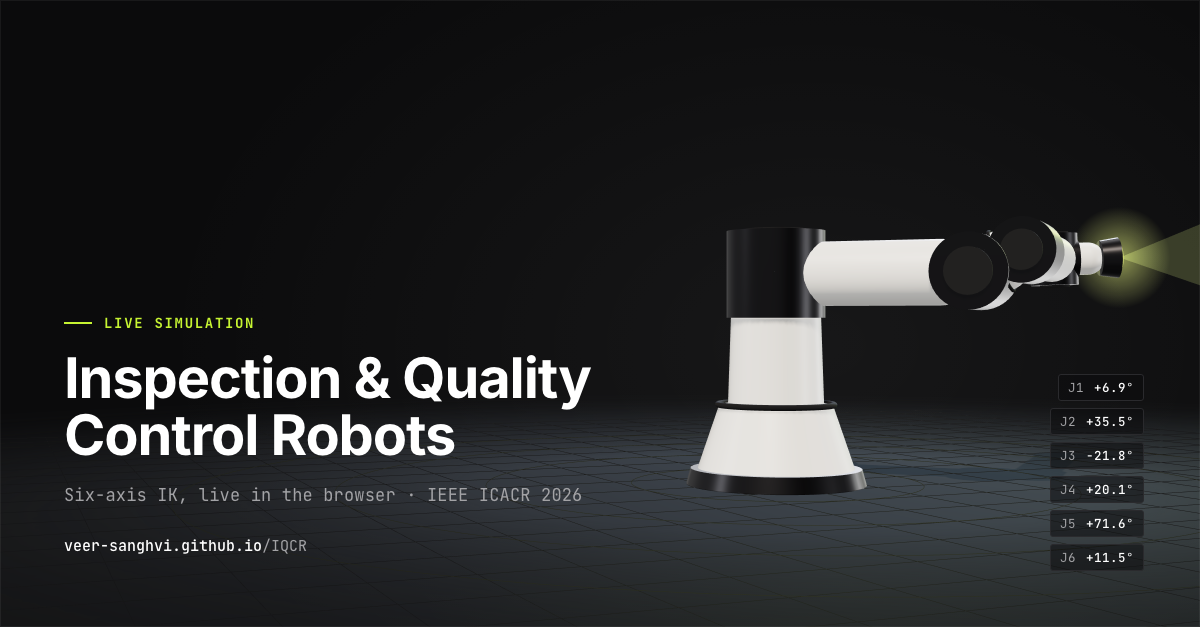
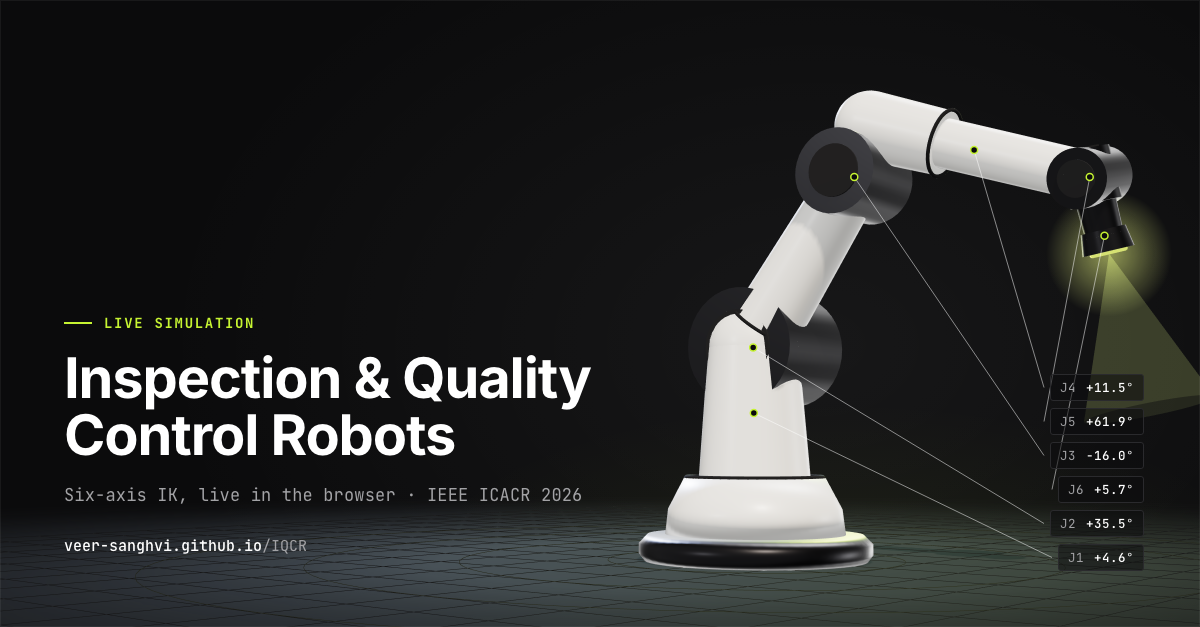
Hero: IRB 120 silhouette, leader lines to every joint, og card re-rendered
With the corrected kinematics the hero arm stands upright. Its body now
follows the IRB 120's form: rounded base plate and turret, a chunky shoulder
housing hung off one side, a tapered upper arm, the J4 drum behind the elbow,
a slim forearm and a compact wrist. Each J1 to J6 tag has a leader line
ending in a lime ring on its joint, and the tag column follows the joints'
on-screen order so the leaders never cross. Camera and pointer target are
reframed for the new pose; pointer-follow IK, orbit, idle, reduced motion
and offscreen pause are unchanged.

og/iqcr-og.png is re-rendered from the same arm at a low three-quarter
angle with the wrist reaching toward the viewer and labelled joints
(1200x627, 263 KB).

Claude-Session: https://claude.ai/code/session_01D47Fi15diK1kUPdyAUWe3G

Changed region(s): [[0.0617, 0.1212, 1.0, 1.0], [0.8017, 0.9091, 0.8325, 0.9394], [0.8017, 0.4848, 0.8325, 0.5152]]

diff --git a/hero.js b/hero.js
@@ -33,6 +33,9 @@ function radialTexture(inner, outer, size = 256, hold = 0) {
 // The arm. Link i lives in a group whose matrix is frames[i + 1]; in that frame
 // the link runs from P_i = Rx(-alpha_i) * (-a_i, 0, -d_i) to the origin, which is
 // pose independent, so only the six group matrices change per frame.
+// Proportions follow the IRB 120: a rounded base plate with a turret, a chunky
+// shoulder housing hung off one side of the turret, a tapered upper arm, the
+// J4 motor housing behind the elbow, a slim forearm and a compact wrist.
 export function buildArm(K) {
   const group = new THREE.Group();
   const paint = new THREE.MeshPhysicalMaterial({ color: PAINT, roughness: 0.42, metalness: 0.0, clearcoat: 0.5, clearcoatRoughness: 0.3, envMapIntensity: 0.6 });
@@ -50,40 +53,75 @@ export function buildArm(K) {
     parent.add(m);
     return m;
   };
+  // a link body: rounded at both ends, tapering from r0 at `from` to r1 at `to`
+  const linkBody = (parent, from, to, r0, r1, mat) => {
+    const dir = to.clone().sub(from).normalize();
+    const len = from.distanceTo(to);
+    const q = new THREE.Quaternion().setFromUnitVectors(Y_AXIS, dir);
+    add(parent, new THREE.CylinderGeometry(r1, r0, len, 40), mat, { pos: from.clone().addScaledVector(dir, len / 2), quat: q });
+    add(parent, new THREE.SphereGeometry(r0, 32, 20), mat, { pos: from.clone() });
+    add(parent, new THREE.SphereGeometry(r1, 32, 20), mat, { pos: to.clone() });
+    return { dir, q };
+  };
+  // a joint housing: a graphite drum on the local z axis with rubber end caps
+  const housing = (parent, r, h, zOff = 0) => {
+    add(parent, new THREE.CylinderGeometry(r, r, h, 40), graphite, { pos: new THREE.Vector3(0, 0, zOff), rotX: Math.PI / 2 });
+    add(parent, new THREE.CylinderGeometry(r * 0.62, r * 0.62, h + 6, 32), rubber, { pos: new THREE.Vector3(0, 0, zOff), rotX: Math.PI / 2 });
+  };
 
-  // static base casting in the world frame
-  add(group, new THREE.CylinderGeometry(118, 124, 22, 48), graphite, { pos: new THREE.Vector3(0, 0, 11), rotX: Math.PI / 2 });
-  add(group, new THREE.CylinderGeometry(78, 108, 88, 48), paint, { pos: new THREE.Vector3(0, 0, 66), rotX: Math.PI / 2 });
-  add(group, new THREE.TorusGeometry(80, 4, 10, 48), rubber, { pos: new THREE.Vector3(0, 0, 110) });
+  // static base in the world frame: a rounded plate, a lip, the turret foot
+  const plate = new THREE.LatheGeometry([
+    new THREE.Vector2(0, 0), new THREE.Vector2(150, 0), new THREE.Vector2(158, 10), new THREE.Vector2(158, 24),
+    new THREE.Vector2(146, 36), new THREE.Vector2(0, 36),
+  ], 56);
+  add(group, plate, graphite, { rotX: Math.PI / 2 });
+  const foot = new THREE.LatheGeometry([
+    new THREE.Vector2(0, 36), new THREE.Vector2(122, 36), new THREE.Vector2(118, 70), new THREE.Vector2(96, 112), new THREE.Vector2(0, 112),
+  ], 56);
+  add(group, foot, paint, { rotX: Math.PI / 2 });
+  add(group, new THREE.TorusGeometry(92, 4, 10, 48), rubber, { pos: new THREE.Vector3(0, 0, 112) });
 
-  // per-link radii: turret, upper arm, elbow offset, forearm, (zero-length wrist), flange
-  const linkR = [60, 44, 40, 34, 0, 24];
-  const housingR = [0, 68, 50, 42, 34, 30, 0]; // housing at frames[j] origin, j = 1..5
-  const housingH = [0, 120, 104, 92, 76, 64, 0];
   const links = [];
   for (let i = 0; i < 6; i++) {
     const g = new THREE.Group();
     g.matrixAutoUpdate = false;
     group.add(g);
     const P = new THREE.Vector3(-K.DH_A[i], 0, -K.DH_D[i]).applyAxisAngle(X_AXIS, -K.DH_ALPHA[i]);
-    const len = P.length();
-    if (len > 1 && linkR[i] > 0) {
-      const dir = P.clone().negate().normalize();
+    const O = new THREE.Vector3();
+    if (i === 0) {
+      // turret: from the foot up to the shoulder, slightly tapered, then the
+      // shoulder housing hung off one side of the turret on the J2 axis
+      const top = P.clone().addScaledVector(P.clone().negate().normalize(), K.DH_D[0]);
+      const dir = top.clone().sub(P).normalize();
       const q = new THREE.Quaternion().setFromUnitVectors(Y_AXIS, dir);
-      const start = i === 0 ? P.clone().addScaledVector(dir, 112) : P.clone();
-      const segLen = start.distanceTo(new THREE.Vector3());
-      const mid = start.clone().addScaledVector(dir, segLen / 2);
-      const geo = i === 0
-        ? new THREE.CylinderGeometry(linkR[i], linkR[i] + 6, segLen, 40)
-        : new THREE.CapsuleGeometry(linkR[i], Math.max(segLen - linkR[i] * 2, 1), 6, 28);
-      add(g, geo, paint, { pos: mid, quat: q });
-      // a dark seam ring where the painted link meets its housing
-      if (i > 0) add(g, new THREE.TorusGeometry(linkR[i] + 1.5, 2.2, 8, 36), rubber, { pos: start.clone().addScaledVector(dir, linkR[i] * 0.9), quat: q.clone().multiply(new THREE.Quaternion().setFromAxisAngle(X_AXIS, Math.PI / 2)) });
-    }
-    const j = i + 1;
-    if (housingR[j] > 0) {
-      add(g, new THREE.CylinderGeometry(housingR[j], housingR[j], housingH[j], 40), graphite, { rotX: Math.PI / 2 });
-      add(g, new THREE.CylinderGeometry(housingR[j] * 0.62, housingR[j] * 0.62, housingH[j] + 6, 32), rubber, { rotX: Math.PI / 2 });
+      const from = P.clone().addScaledVector(dir, 112);
+      const len = from.distanceTo(top);
+      add(g, new THREE.CylinderGeometry(62, 76, len, 40), paint, { pos: from.clone().addScaledVector(dir, len / 2), quat: q });
+      add(g, new THREE.SphereGeometry(62, 32, 20), paint, { pos: top });
+      housing(g, 80, 150, 34);
+    } else if (i === 1) {
+      // upper arm: tapers from the shoulder to the elbow, seam at the shoulder
+      const { dir, q } = linkBody(g, P, O, 50, 40, paint);
+      add(g, new THREE.TorusGeometry(51, 2.4, 8, 40), rubber, { pos: P.clone().addScaledVector(dir, 36), quat: q.clone().multiply(new THREE.Quaternion().setFromAxisAngle(X_AXIS, Math.PI / 2)) });
+      housing(g, 56, 118);
+    } else if (i === 2) {
+      // elbow offset link (70 mm); the J4 drum on the next link covers its far end
+      linkBody(g, P, O, 40, 40, paint);
+    } else if (i === 3) {
+      // forearm: the J4 motor drum behind the elbow, then a slim tube to the wrist
+      const dir = O.clone().sub(P).normalize();
+      const q = new THREE.Quaternion().setFromUnitVectors(Y_AXIS, dir);
+      add(g, new THREE.CylinderGeometry(42, 46, 110, 40), paint, { pos: P.clone().addScaledVector(dir, 55), quat: q });
+      add(g, new THREE.SphereGeometry(46, 32, 20), paint, { pos: P.clone() });
+      add(g, new THREE.TorusGeometry(43, 2.4, 8, 40), rubber, { pos: P.clone().addScaledVector(dir, 110), quat: q.clone().multiply(new THREE.Quaternion().setFromAxisAngle(X_AXIS, Math.PI / 2)) });
+      linkBody(g, P.clone().addScaledVector(dir, 110), O, 32, 30, paint);
+      housing(g, 36, 84);
+    } else if (i === 4) {
+      // zero-length wrist link: the J6 housing sits on the J5 drum
+      housing(g, 30, 64);
+    } else {
+      // flange: a short graphite stub to the tool point
+      linkBody(g, P, O, 24, 22, graphite);
     }
     links.push(g);
   }
@@ -119,6 +157,13 @@ export function buildArm(K) {
     }
   }
   return { group, update, glow, cone };
+}
+
+// Where each joint label points: J1 on the turret, J2 the shoulder, J3 the
+// elbow, J4 the middle of the forearm, J5 the wrist centre, J6 the flange.
+export function jointAnchors(frames) {
+  const pts = frames.map((T) => new THREE.Vector3(T[0][3], T[1][3], T[2][3]));
+  return [new THREE.Vector3(0, 0, 200), pts[1], pts[2], pts[3].clone().lerp(pts[4], 0.5), pts[4], pts[6]];
 }
 
 // Three-point studio: warm key with a soft shadow, cool rim, low fill, a
@@ -229,9 +274,9 @@ export function createHero(host) {
 
   const camera = new THREE.PerspectiveCamera(28, 1, 10, 6000);
   camera.up.copy(Z_AXIS);
-  camera.position.set(1180, -400, 440);
+  camera.position.set(1150, -820, 420);
   const controls = new OrbitControls(camera, host);
-  controls.target.set(70, 230, 240);
+  controls.target.set(140, -40, 330);
   controls.enableZoom = false;
   controls.enablePan = false;
   controls.enableDamping = true;
@@ -242,7 +287,7 @@ export function createHero(host) {
   controls.update();
 
   // ---- pointer target ----
-  const CENTER = new THREE.Vector3(150, 300, 300);
+  const CENTER = new THREE.Vector3(360, -150, 330);
   const SHOULDER = new THREE.Vector3(0, 0, K.DH_D[0]);
   const REACH = 540;
   const targetRaw = CENTER.clone();
@@ -289,23 +334,25 @@ export function createHero(host) {
   // ---- annotation overlay: J1 to J6 leader lines and live angles ----
   const tags = Array.from(host.querySelectorAll("[data-joint]"));
   const lines = Array.from(host.querySelectorAll("[data-leader]"));
-  const anchors = tags.map(() => new THREE.Vector3());
+  const dots = Array.from(host.querySelectorAll("[data-leader-dot]"));
   const tcp = host.querySelector("[data-tcp]");
   function updateOverlay(frames) {
     const r = host.getBoundingClientRect();
     const pts = frames.map((T) => new THREE.Vector3(T[0][3], T[1][3], T[2][3]));
-    // J1 sits on the turret, J2 to J6 at the frame origins that carry those axes
-    anchors[0].set(0, 0, 215);
-    for (let j = 1; j < 6; j++) anchors[j].copy(pts[j]);
+    const anchors = jointAnchors(frames);
     const v = new THREE.Vector3();
+    const screen = anchors.map((a) => { v.copy(a).project(camera); return [(v.x * 0.5 + 0.5) * r.width, (-v.y * 0.5 + 0.5) * r.height]; });
+    // the tag column follows the joints' order on screen, top to bottom, so the leaders never cross
+    const rank = screen.map((p, j) => [p[1], j]).sort((a, b) => a[0] - b[0]).map(([, j]) => j);
+    rank.forEach((j, k) => { tags[j].style.order = k; });
     tags.forEach((tag, j) => {
-      v.copy(anchors[j]).project(camera);
-      const x = (v.x * 0.5 + 0.5) * r.width, y = (-v.y * 0.5 + 0.5) * r.height;
+      const [x, y] = screen[j];
       const deg = (q[j] * 180) / Math.PI;
       tag.lastElementChild.textContent = `${deg >= 0 ? "+" : "−"}${Math.abs(deg).toFixed(1).padStart(5, " ")}°`;
       const tr = tag.getBoundingClientRect();
-      const line = lines[j];
+      const line = lines[j], dot = dots[j];
       if (line) line.setAttribute("x1", tr.right - r.left + 4), line.setAttribute("y1", tr.top - r.top + tr.height / 2), line.setAttribute("x2", x), line.setAttribute("y2", y);
+      if (dot) dot.setAttribute("cx", x), dot.setAttribute("cy", y);
     });
     if (tcp) {
       const p = pts[6];
@@ -325,9 +372,9 @@ export function createHero(host) {
     // whole arm sits above the copy; desktop keeps the long-lens studio look
     const portrait = camera.aspect < 0.9;
     camera.fov = portrait ? 50 : camera.aspect < 1.4 ? 34 : 28;
-    controls.target.set(70, portrait ? 230 : 140, portrait ? 130 : 230);
+    controls.target.set(portrait ? 120 : 140, portrait ? -60 : -40, portrait ? 340 : 330);
     const dir = camera.position.clone().sub(controls.target).normalize();
-    camera.position.copy(controls.target).addScaledVector(dir, portrait ? 1750 : 1280);
+    camera.position.copy(controls.target).addScaledVector(dir, portrait ? 1550 : 1500);
     camera.updateProjectionMatrix();
     renderer.setSize(w, h, false);
     needsRender = true;

diff --git a/og/og-scene.html b/og/og-scene.html
@@ -25,6 +25,9 @@ h1{font-size:56px; line-height:1.02; letter-spacing:-0.02em; font-weight:700; ma
 .url{font-family:"JetBrains Mono",monospace; font-size:15px; color:#A3A3A6;}
 .url b{color:#fff; font-weight:500;}
 .tags{position:absolute; right:56px; bottom:56px; display:flex; flex-direction:column; gap:7px; align-items:flex-end;}
+.leaders{position:absolute; inset:0; width:100%; height:100%; pointer-events:none; overflow:visible;}
+.leaders line{stroke:rgba(255,255,255,0.5); stroke-width:1;}
+.leaders circle{fill:#0B0B0C; stroke:#C6F432; stroke-width:1.5;}
 .tag{font-family:"JetBrains Mono",monospace; font-size:12.5px; letter-spacing:0.04em; color:#A3A3A6; background:rgba(11,11,12,0.55); border:1px solid #2A2A2D; border-radius:3px; padding:4px 9px; font-variant-numeric:tabular-nums;}
 .tag b{color:#fff; font-weight:500; margin-left:10px;}
 .frame{position:absolute; inset:0; border:1px solid rgba(255,255,255,0.06); pointer-events:none;}
@@ -33,6 +36,7 @@ h1{font-size:56px; line-height:1.02; letter-spacing:-0.02em; font-weight:700; ma
 <body>
 <div id="host"><canvas></canvas></div>
 <div class="frame"></div>
+<svg class="leaders" id="leaders"></svg>
 <div class="tags" id="tags"></div>
 <div class="copy">
   <p class="kicker">Live simulation</p>
@@ -46,7 +50,7 @@ h1{font-size:56px; line-height:1.02; letter-spacing:-0.02em; font-weight:700; ma
 <script src="../kinematics.js"></script>
 <script type="module">
 import * as THREE from "three";
-import { buildArm, makeStudio, makeEnvironment } from "../hero.js";
+import { buildArm, makeStudio, makeEnvironment, jointAnchors } from "../hero.js";
 const K = window.IQCR_KIN;
 const host = document.getElementById("host");
 const renderer = new THREE.WebGLRenderer({ canvas: host.querySelector("canvas"), antialias: true, alpha: true, preserveDrawingBuffer: true });
@@ -62,26 +66,37 @@ makeStudio(renderer, scene);
 makeEnvironment(renderer, scene);
 const arm = buildArm(K);
 scene.add(arm.group);
-// pose: wrist pitched toward the lens so the sensor and scan cone face the viewer
-const q = [0.12, 0.62, -0.38, 0.35, 1.25, 0.2];
+// pose: base turned toward the lens, shoulder forward, wrist pitched down so the
+// sensor and its scan cone reach toward the viewer
+const q = [0.08, 0.62, -0.28, 0.2, 1.08, 0.1];
 const { frames } = K.fkChain(q);
 arm.update(frames);
 arm.glow.material.opacity = 0.7;
 arm.cone.material.opacity = 0.1;
 const camera = new THREE.PerspectiveCamera(25, 1200 / 627, 10, 6000);
 camera.up.set(0, 0, 1);
-camera.position.set(1700, -1000, 230); // dramatic low angle, arm pushed into the right column
-camera.lookAt(150, -330, 235);
+camera.position.set(1120, -1600, 160); // dramatic low three-quarter angle, arm in the right column
+camera.lookAt(0, -320, 315);
+camera.updateMatrixWorld();
 // stronger rim for the still
 const rim2 = new THREE.DirectionalLight(0xC6F432, 0.5);
 rim2.position.set(-500, 900, 300);
 scene.add(rim2);
 const tags = document.getElementById("tags");
-q.forEach((v, i) => {
-  const d = (v * 180) / Math.PI;
-  tags.insertAdjacentHTML("beforeend", `<div class="tag">J${i + 1}<b>${d >= 0 ? "+" : "−"}${Math.abs(d).toFixed(1)}°</b></div>`);
+const leaders = document.getElementById("leaders");
+const anchors = jointAnchors(frames);
+const screen = anchors.map((a) => { const v = a.clone().project(camera); return [(v.x * 0.5 + 0.5) * 1200, (-v.y * 0.5 + 0.5) * 627]; });
+// tag column in on-screen order, top to bottom, so the leaders never cross
+const order = screen.map((p, j) => [p[1], j]).sort((a, b) => a[0] - b[0]).map(([, j]) => j);
+order.forEach((i) => {
+  const d = (q[i] * 180) / Math.PI;
+  tags.insertAdjacentHTML("beforeend", `<div class="tag" data-j="${i}">J${i + 1}<b>${d >= 0 ? "+" : "−"}${Math.abs(d).toFixed(1)}°</b></div>`);
 });
 await document.fonts.ready;
+for (const tag of tags.children) {
+  const i = Number(tag.dataset.j), [x, y] = screen[i], r = tag.getBoundingClientRect();
+  leaders.insertAdjacentHTML("beforeend", `<line x1="${r.left - 6}" y1="${r.top + r.height / 2}" x2="${x}" y2="${y}"></line><circle cx="${x}" cy="${y}" r="3.5"></circle>`);
+}
 renderer.render(scene, camera);
 document.body.dataset.ready = "1";
 </script>
